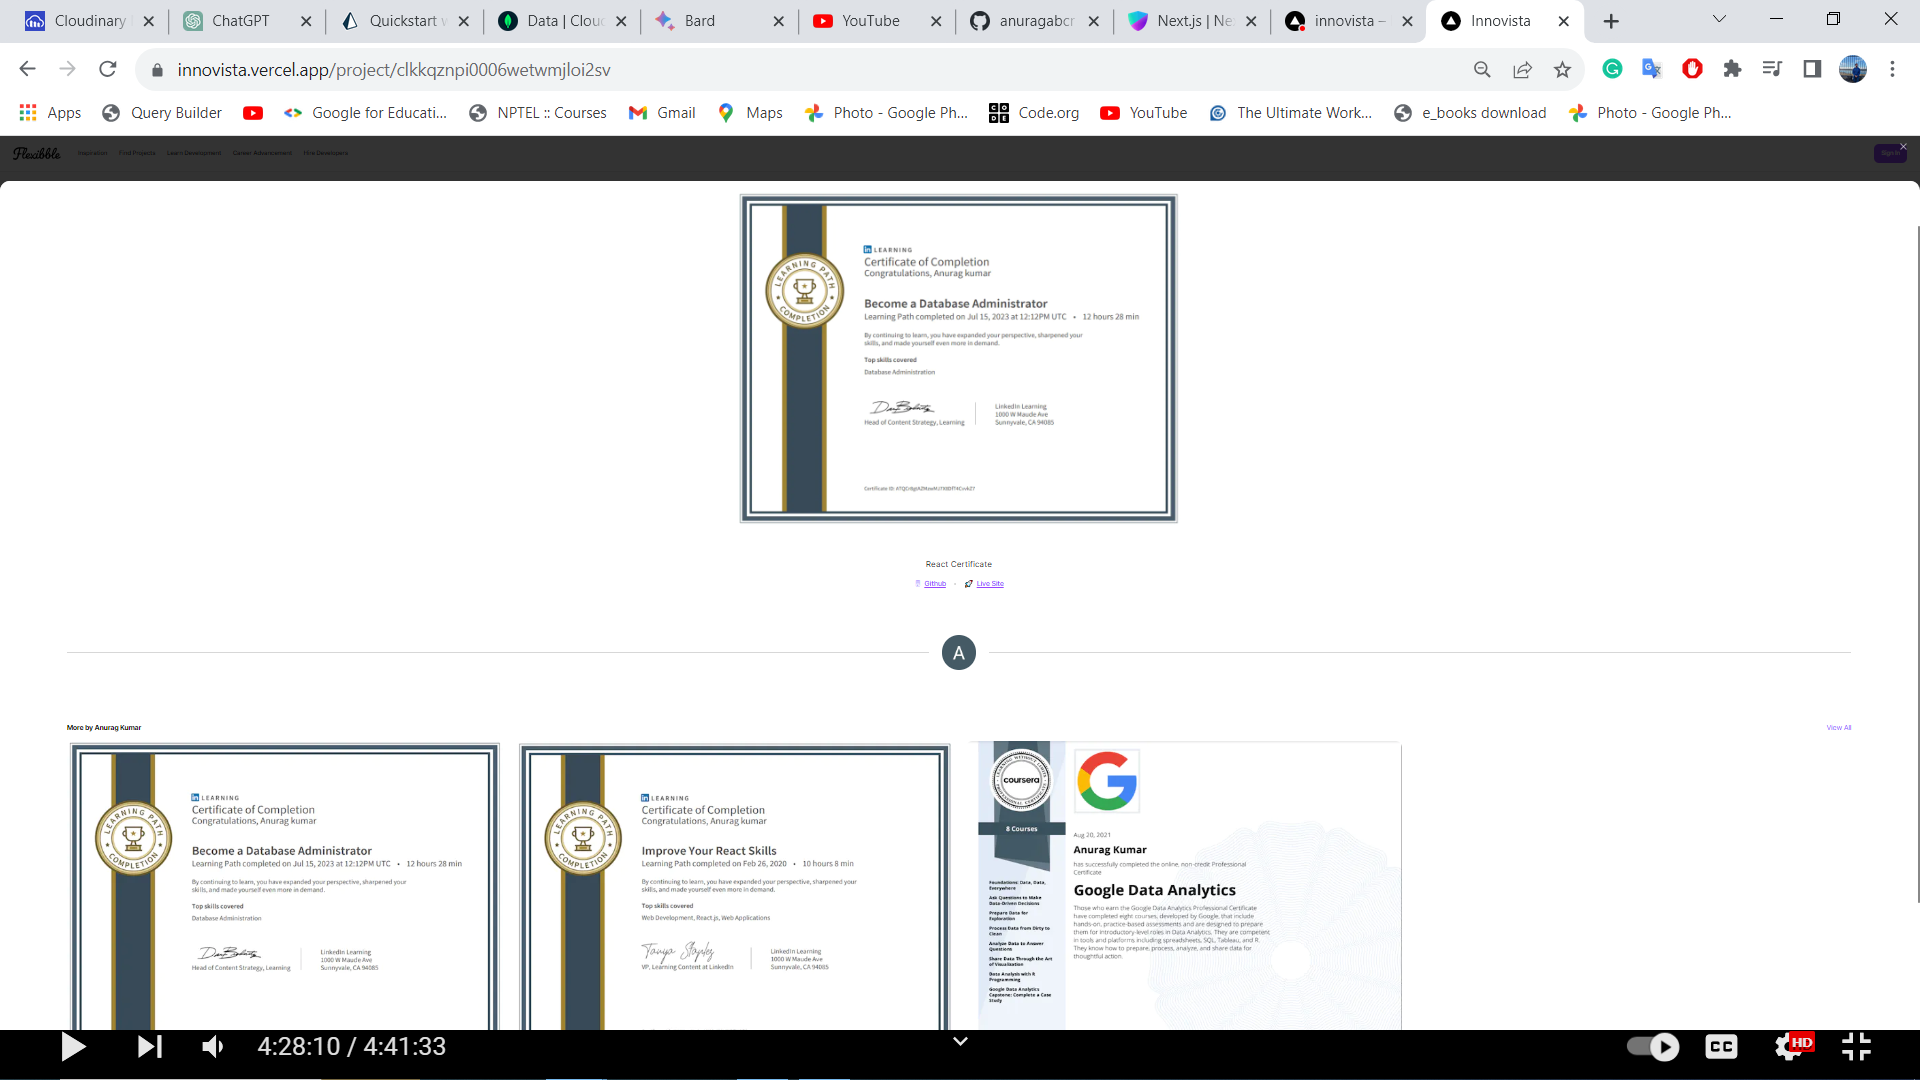
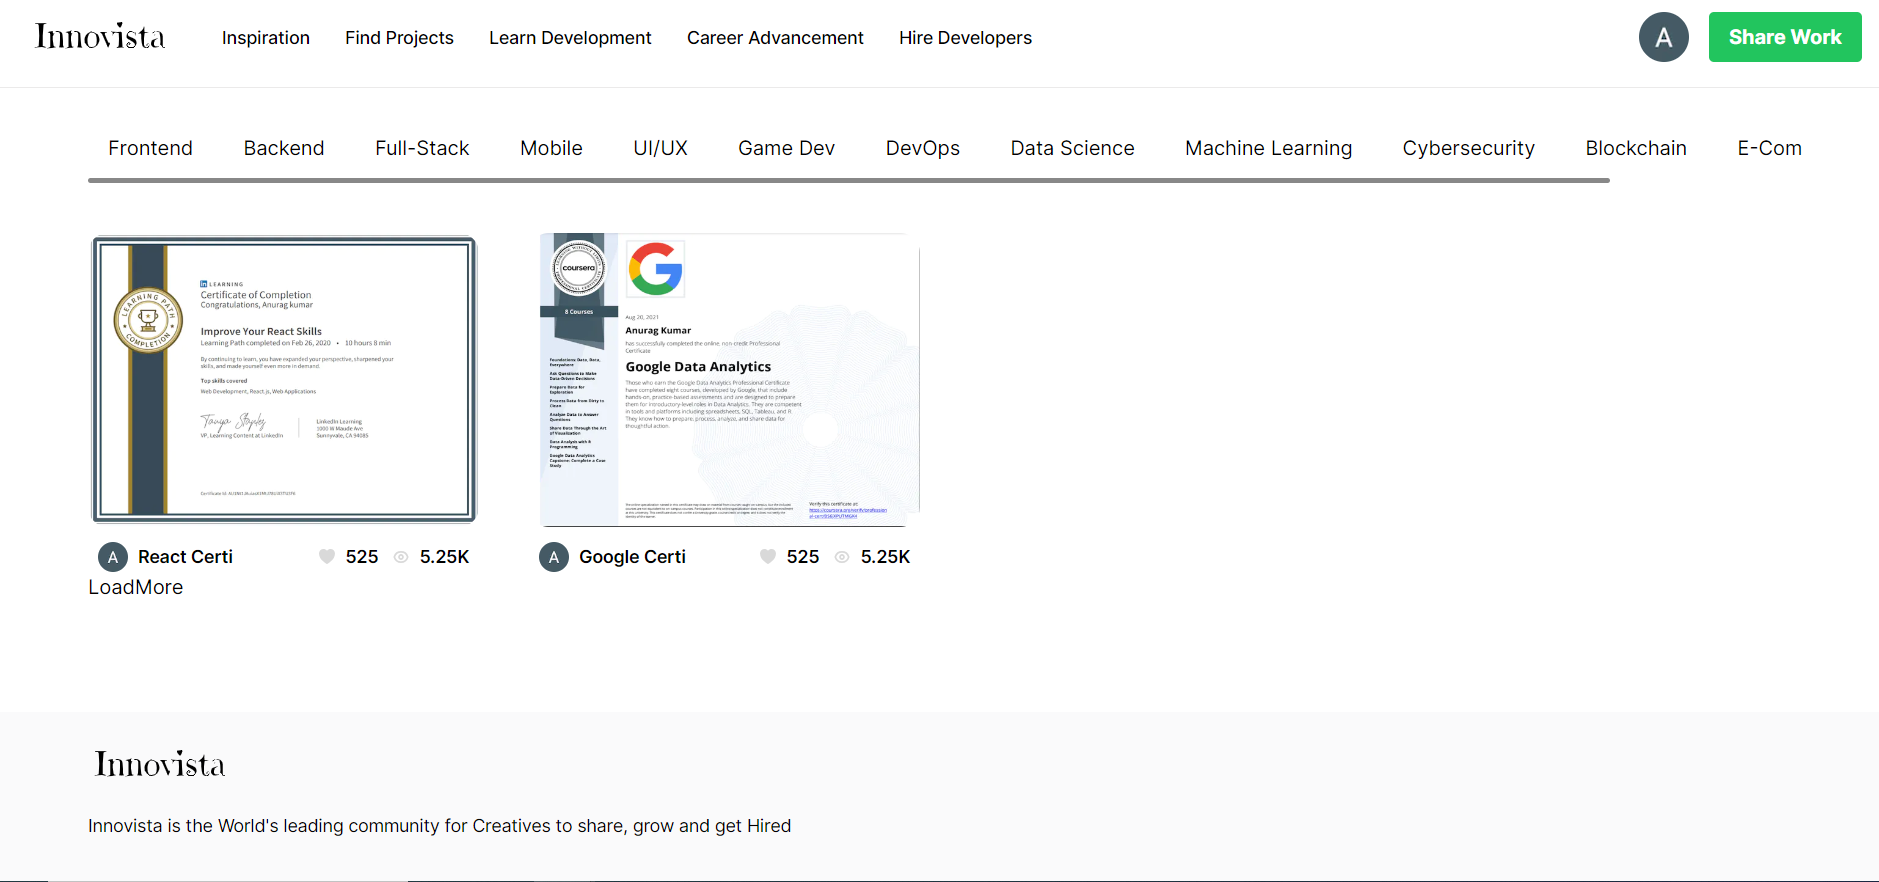
added certi

diff --git a/app/components/SocialMedia.tsx b/app/components/SocialMedia.tsx
@@ -2,18 +2,25 @@ import React from "react";
 import { BsGithub } from "react-icons/bs";
 import { FaLinkedin } from "react-icons/fa";
 import { LiaHackerrank } from "react-icons/lia";
+import Link from "next/link";
 
 const SocialMedia = () => {
   return (
     <div className="app__social">
       <div>
-        <BsGithub />
+        <Link href="https://github.com/anuragabcr">
+          <BsGithub />
+        </Link>
       </div>
       <div>
-        <FaLinkedin />
+        <Link href="https://www.linkedin.com/in/anuragabcr/">
+          <FaLinkedin />
+        </Link>
       </div>
       <div>
-        <LiaHackerrank />
+        <Link href="https://www.hackerrank.com/anuragabcr?hr_r=1">
+          <LiaHackerrank />
+        </Link>
       </div>
     </div>
   );

diff --git a/app/container/Work/Work.tsx b/app/container/Work/Work.tsx
@@ -74,11 +74,12 @@ const Work = () => {
   return (
     <>
       <h2 className="head-text">
-        My Creative <span>Portfolio</span> Section
+        My Creative <span>Porjects</span> Section
       </h2>
+      <h4>You can click on the Image to go to Live website or GitHub Page</h4>
 
       <div className="app__work-filter">
-        {["Python", "React Js", "Mern Stack", "Next Js", "Node js", "All"].map(
+        {["Python", "React Js", "MERN Stack", "Next Js", "Node Js", "All"].map(
           (item, index) => (
             <div
               key={index}

diff --git a/app/constants/images.tsx b/app/constants/images.tsx
@@ -41,6 +41,8 @@ import certi2 from "../assets/certi2.png";
 import certi3 from "../assets/certi3.png";
 import certi4 from "../assets/certi4.png";
 import certi5 from "../assets/certi5.png";
+import certi6 from "../assets/certi6.png";
+import certi7 from "../assets/certi7.png";
 import express from "../assets/express.png";
 import next from "../assets/next.png";
 import innovista from "../assets/innovista.png";
@@ -91,4 +93,6 @@ export default {
   next,
   innovista,
   thinktank,
+  certi6,
+  certi7,
 };

diff --git a/app/container/Certificate/Certificate.tsx b/app/container/Certificate/Certificate.tsx
@@ -13,6 +13,8 @@ const certiData = [
   images.certi3,
   images.certi4,
   images.certi5,
+  images.certi6,
+  images.certi7,
 ];
 
 const Certificate = () => {
